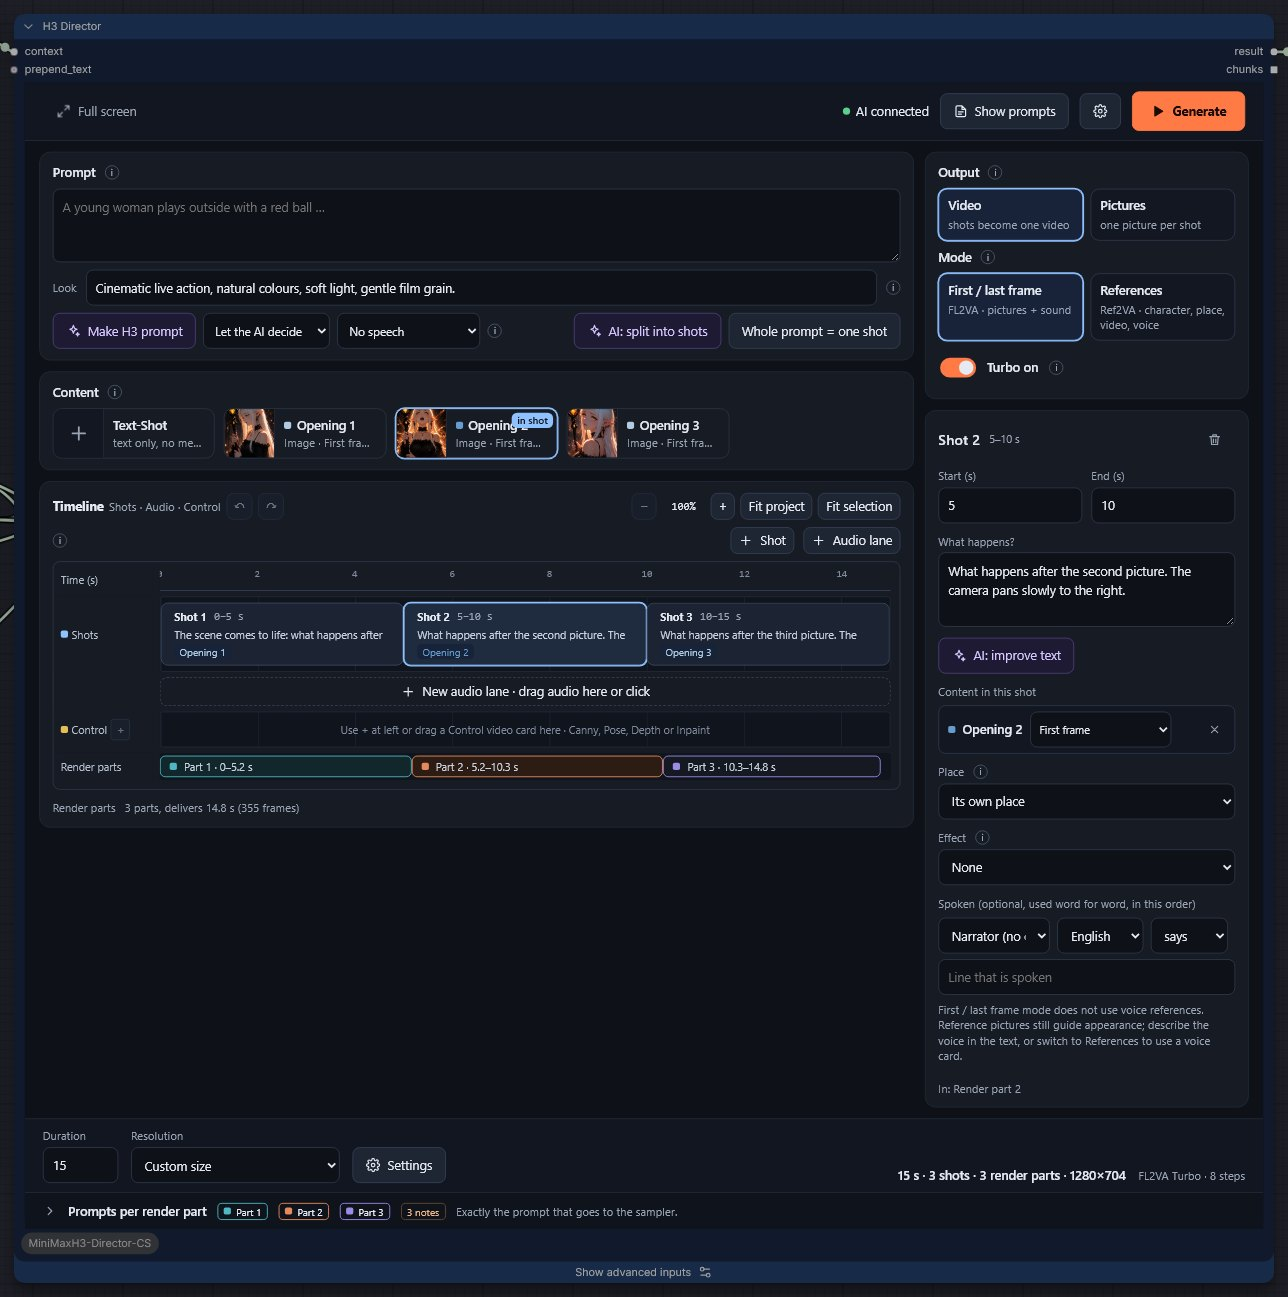
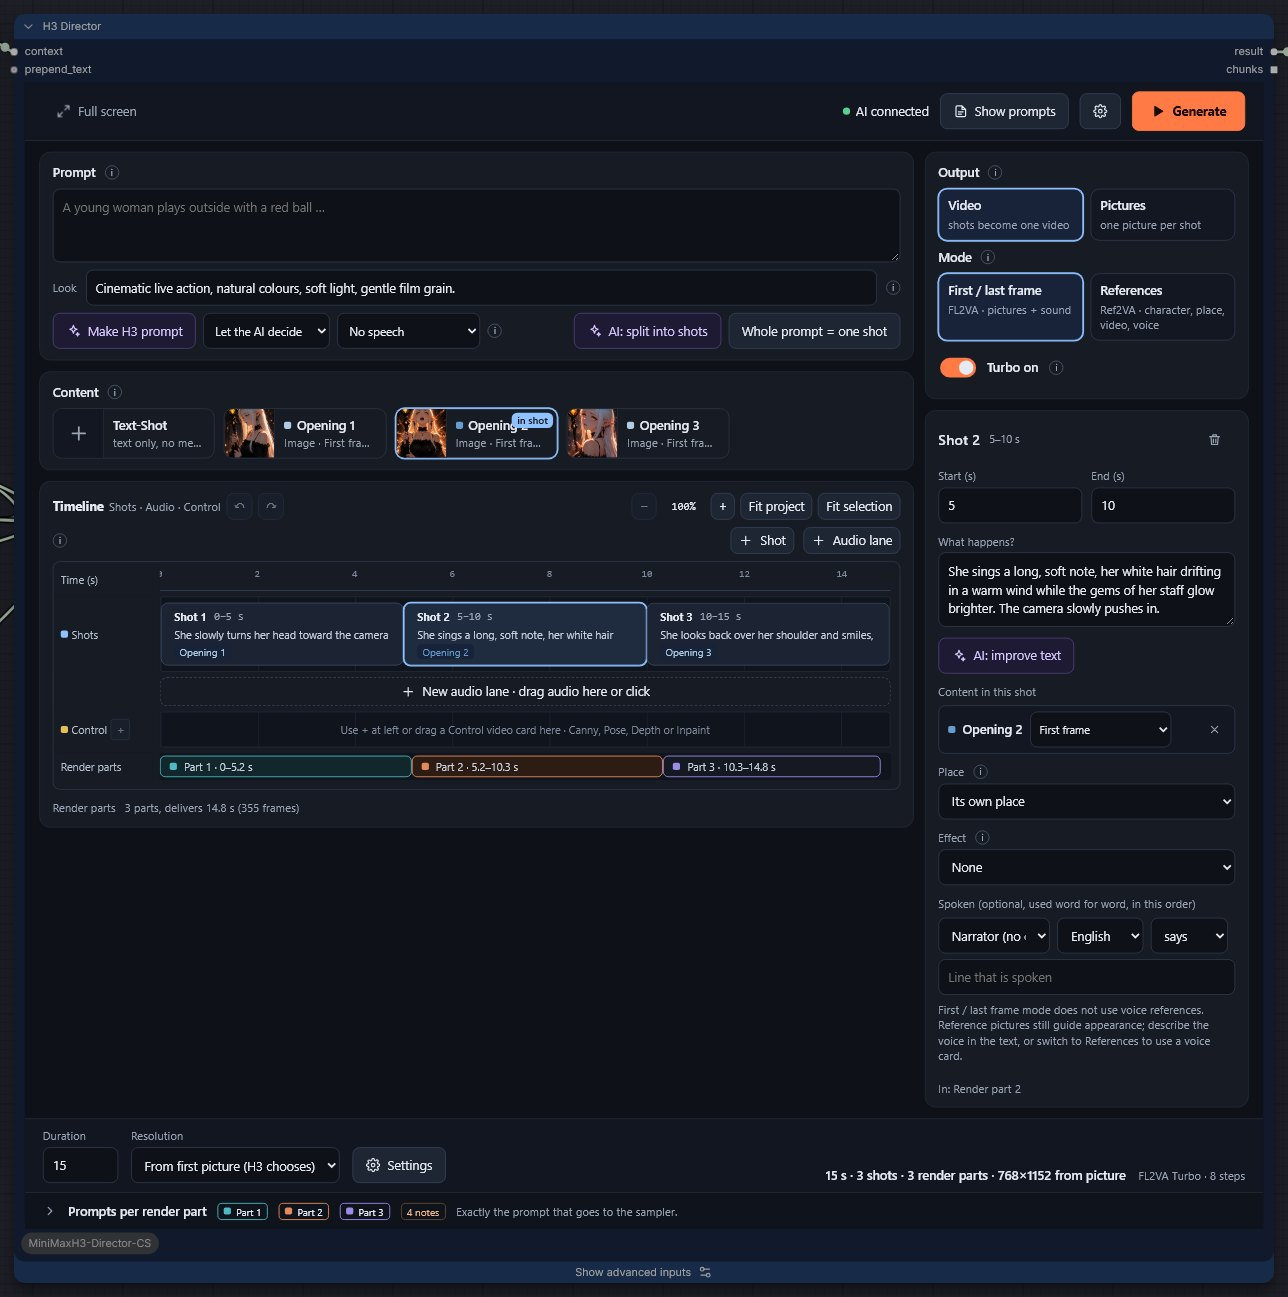
Make workflow 4 a portrait video so the pictures are not cropped
Resolution From first picture (768x1152) and shot texts that fit the pictures; guide and pictures updated.

diff --git a/GUIDE.md b/GUIDE.md
@@ -498,7 +498,8 @@ Every shot starts exactly on one of your pictures and comes to life from there. 
 
 ![The whole workflow](js/guide/images/wf4-overview.jpg)
 
-**What you need:** one picture per shot, ideally in the video's format (here 1280×704, landscape).
+**What you need:** one picture per shot, all in the same format. The example's Resolution is *From first picture*: the
+video takes the pictures' shape (here portrait, 768×1152).
 The example opens with three views of the same figure (`h3-example-hero-side/front/back.jpg`).
 
 **The steps in short**
@@ -518,7 +519,8 @@ The same six loaders as in every workflow. This mode uses the **First / last fra
 ![An opening picture](js/guide/images/wf4-card-image.jpg)
 
 Each card is set to **Use as: First frame**. A picture that does not fit the video's format is fitted by **Fit
-pictures** in the Settings (*Crop* by default).
+pictures** in the Settings (*Crop* by default). Crop cuts from the middle: a portrait picture in a landscape video loses
+its top and bottom — the head may be cut off. Keep pictures and video in the same shape, or choose *Pad*.
 
 ### 3 · H3 Director
 

diff --git a/js/guide/en/wf4-shots-from-pictures.md b/js/guide/en/wf4-shots-from-pictures.md
@@ -5,7 +5,8 @@ Every shot starts exactly on one of your pictures and comes to life from there. 
 
 ![The whole workflow](../images/wf4-overview.jpg)
 
-**What you need:** one picture per shot, ideally in the video's format (here 1280×704, landscape).
+**What you need:** one picture per shot, all in the same format. The example's Resolution is *From first picture*: the
+video takes the pictures' shape (here portrait, 768×1152).
 The example opens with three views of the same figure (`h3-example-hero-side/front/back.jpg`).
 
 **The steps in short**
@@ -25,7 +26,8 @@ The same six loaders as in every workflow. This mode uses the **First / last fra
 ![An opening picture](../images/wf4-card-image.jpg)
 
 Each card is set to **Use as: First frame**. A picture that does not fit the video's format is fitted by **Fit
-pictures** in the Settings (*Crop* by default).
+pictures** in the Settings (*Crop* by default). Crop cuts from the middle: a portrait picture in a landscape video loses
+its top and bottom — the head may be cut off. Keep pictures and video in the same shape, or choose *Pad*.
 
 ## 3 · H3 Director
 
